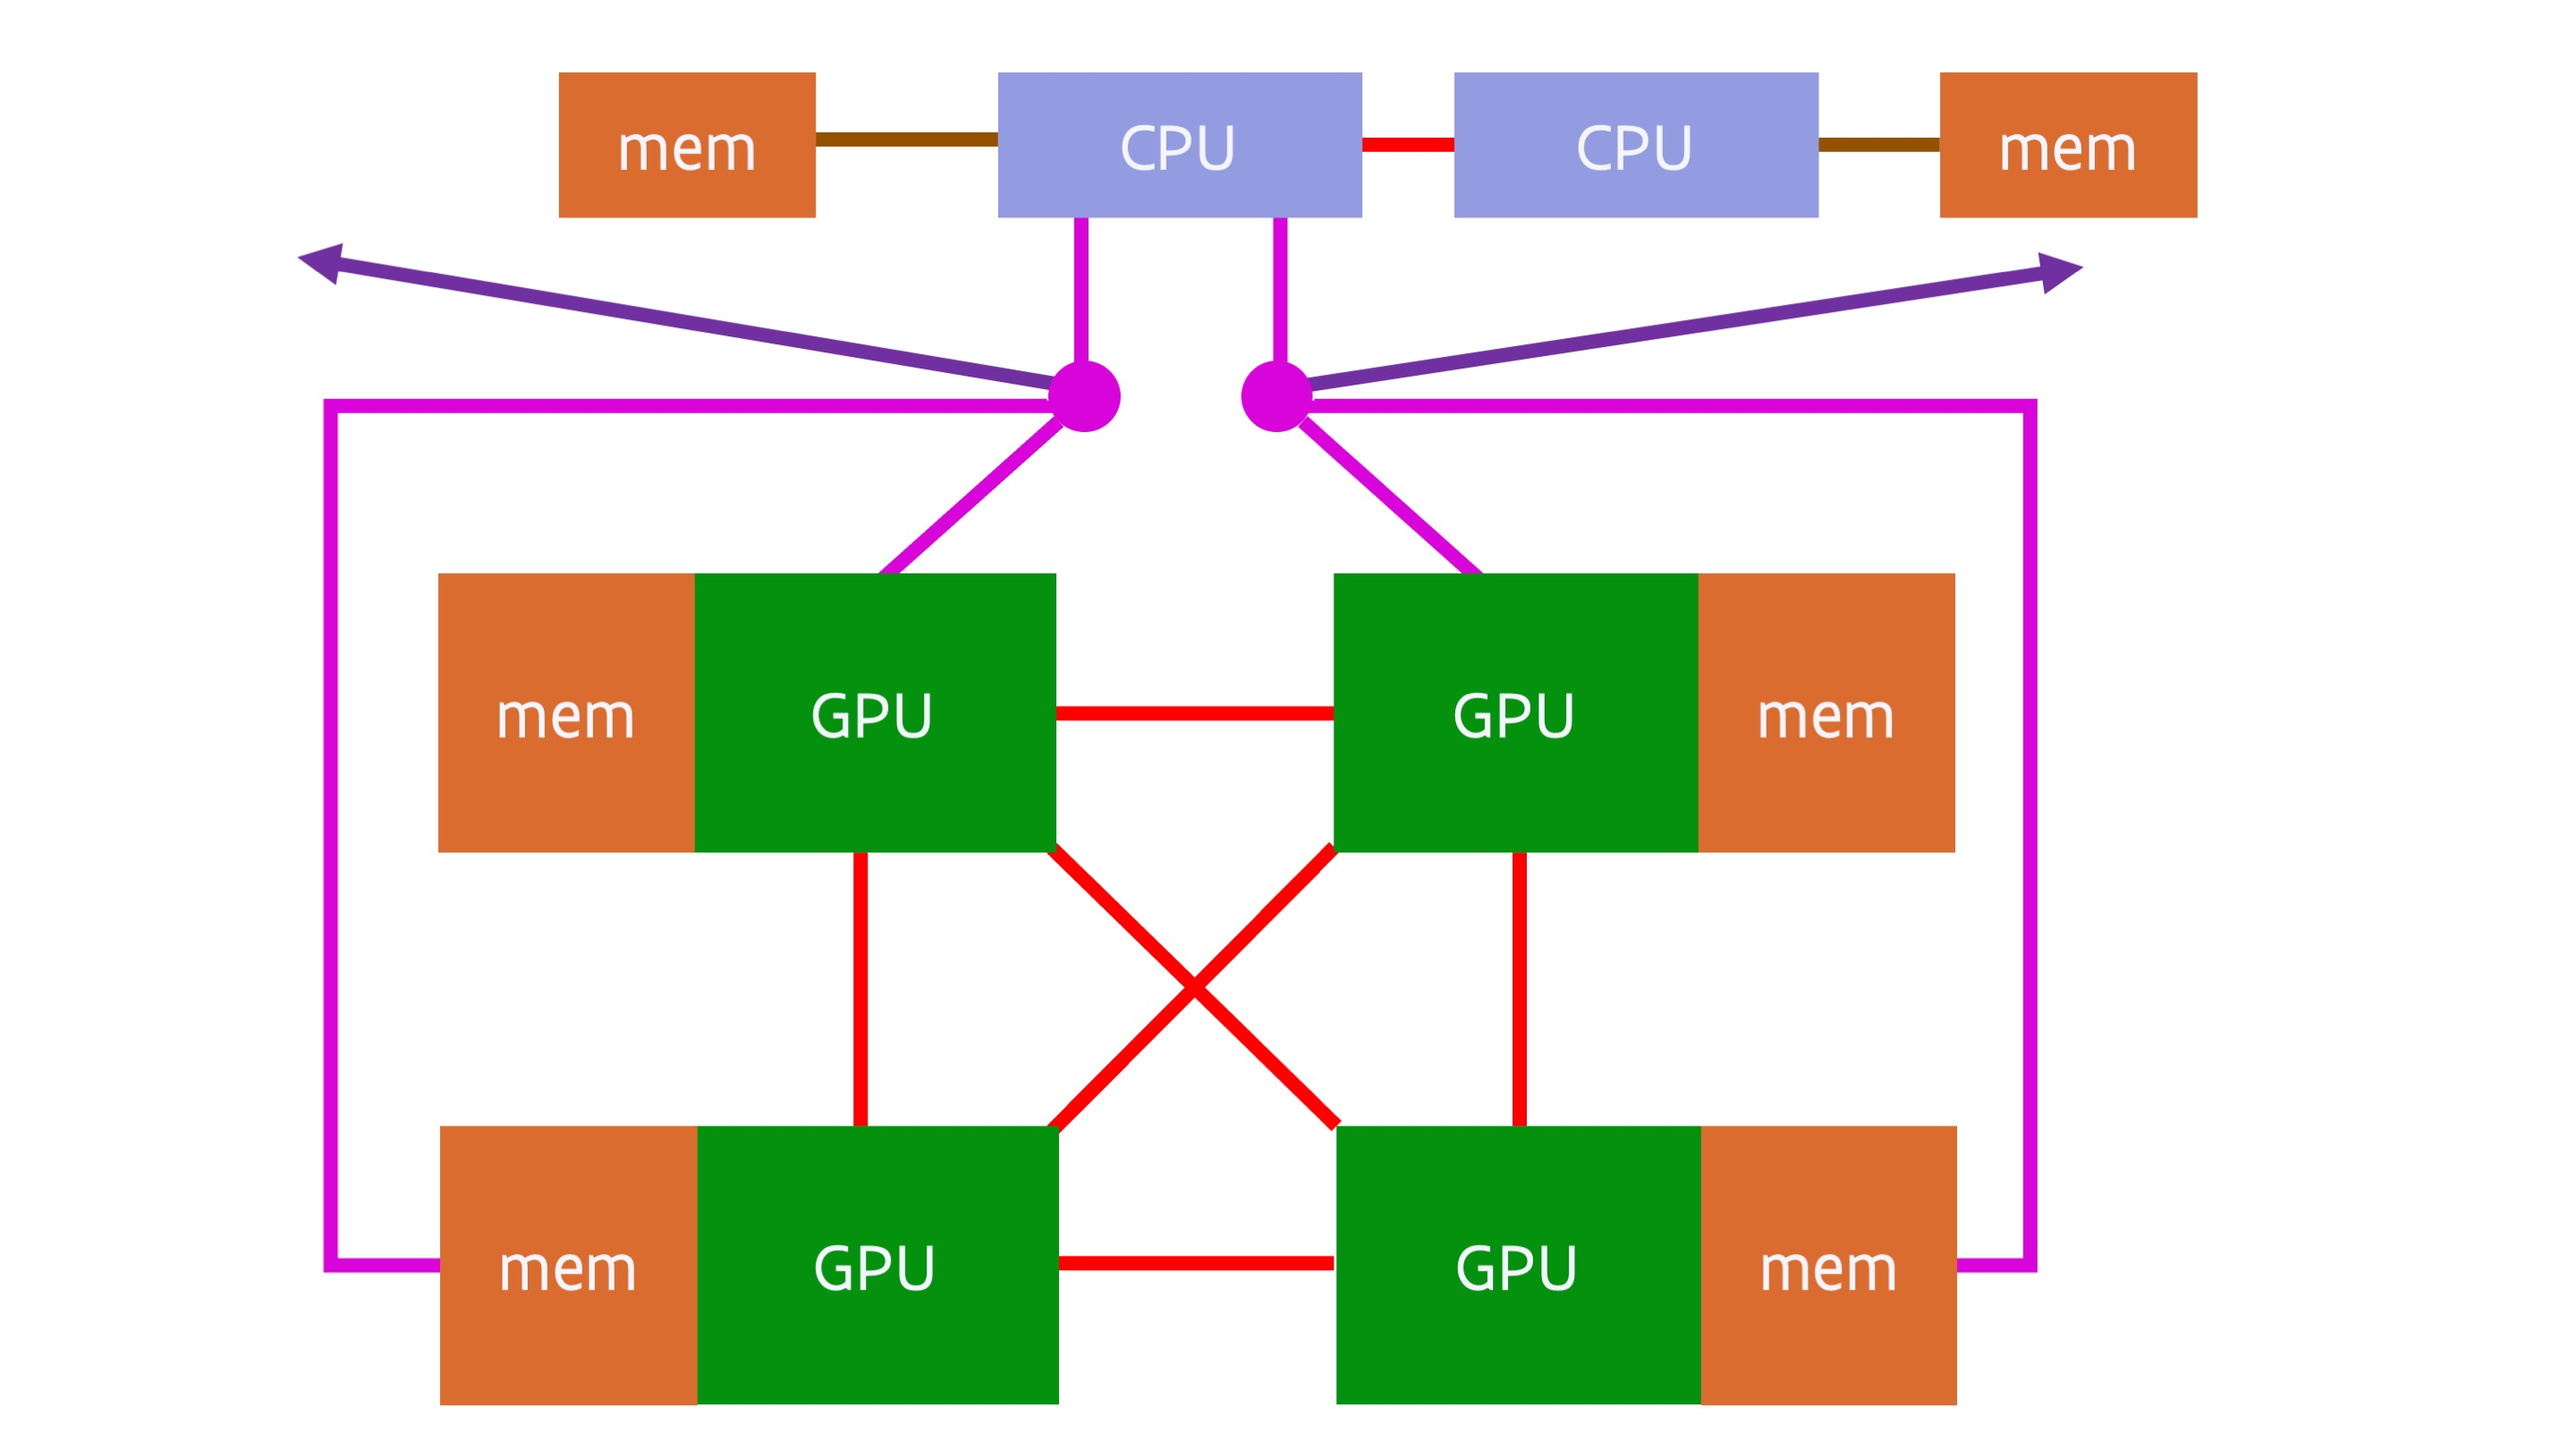
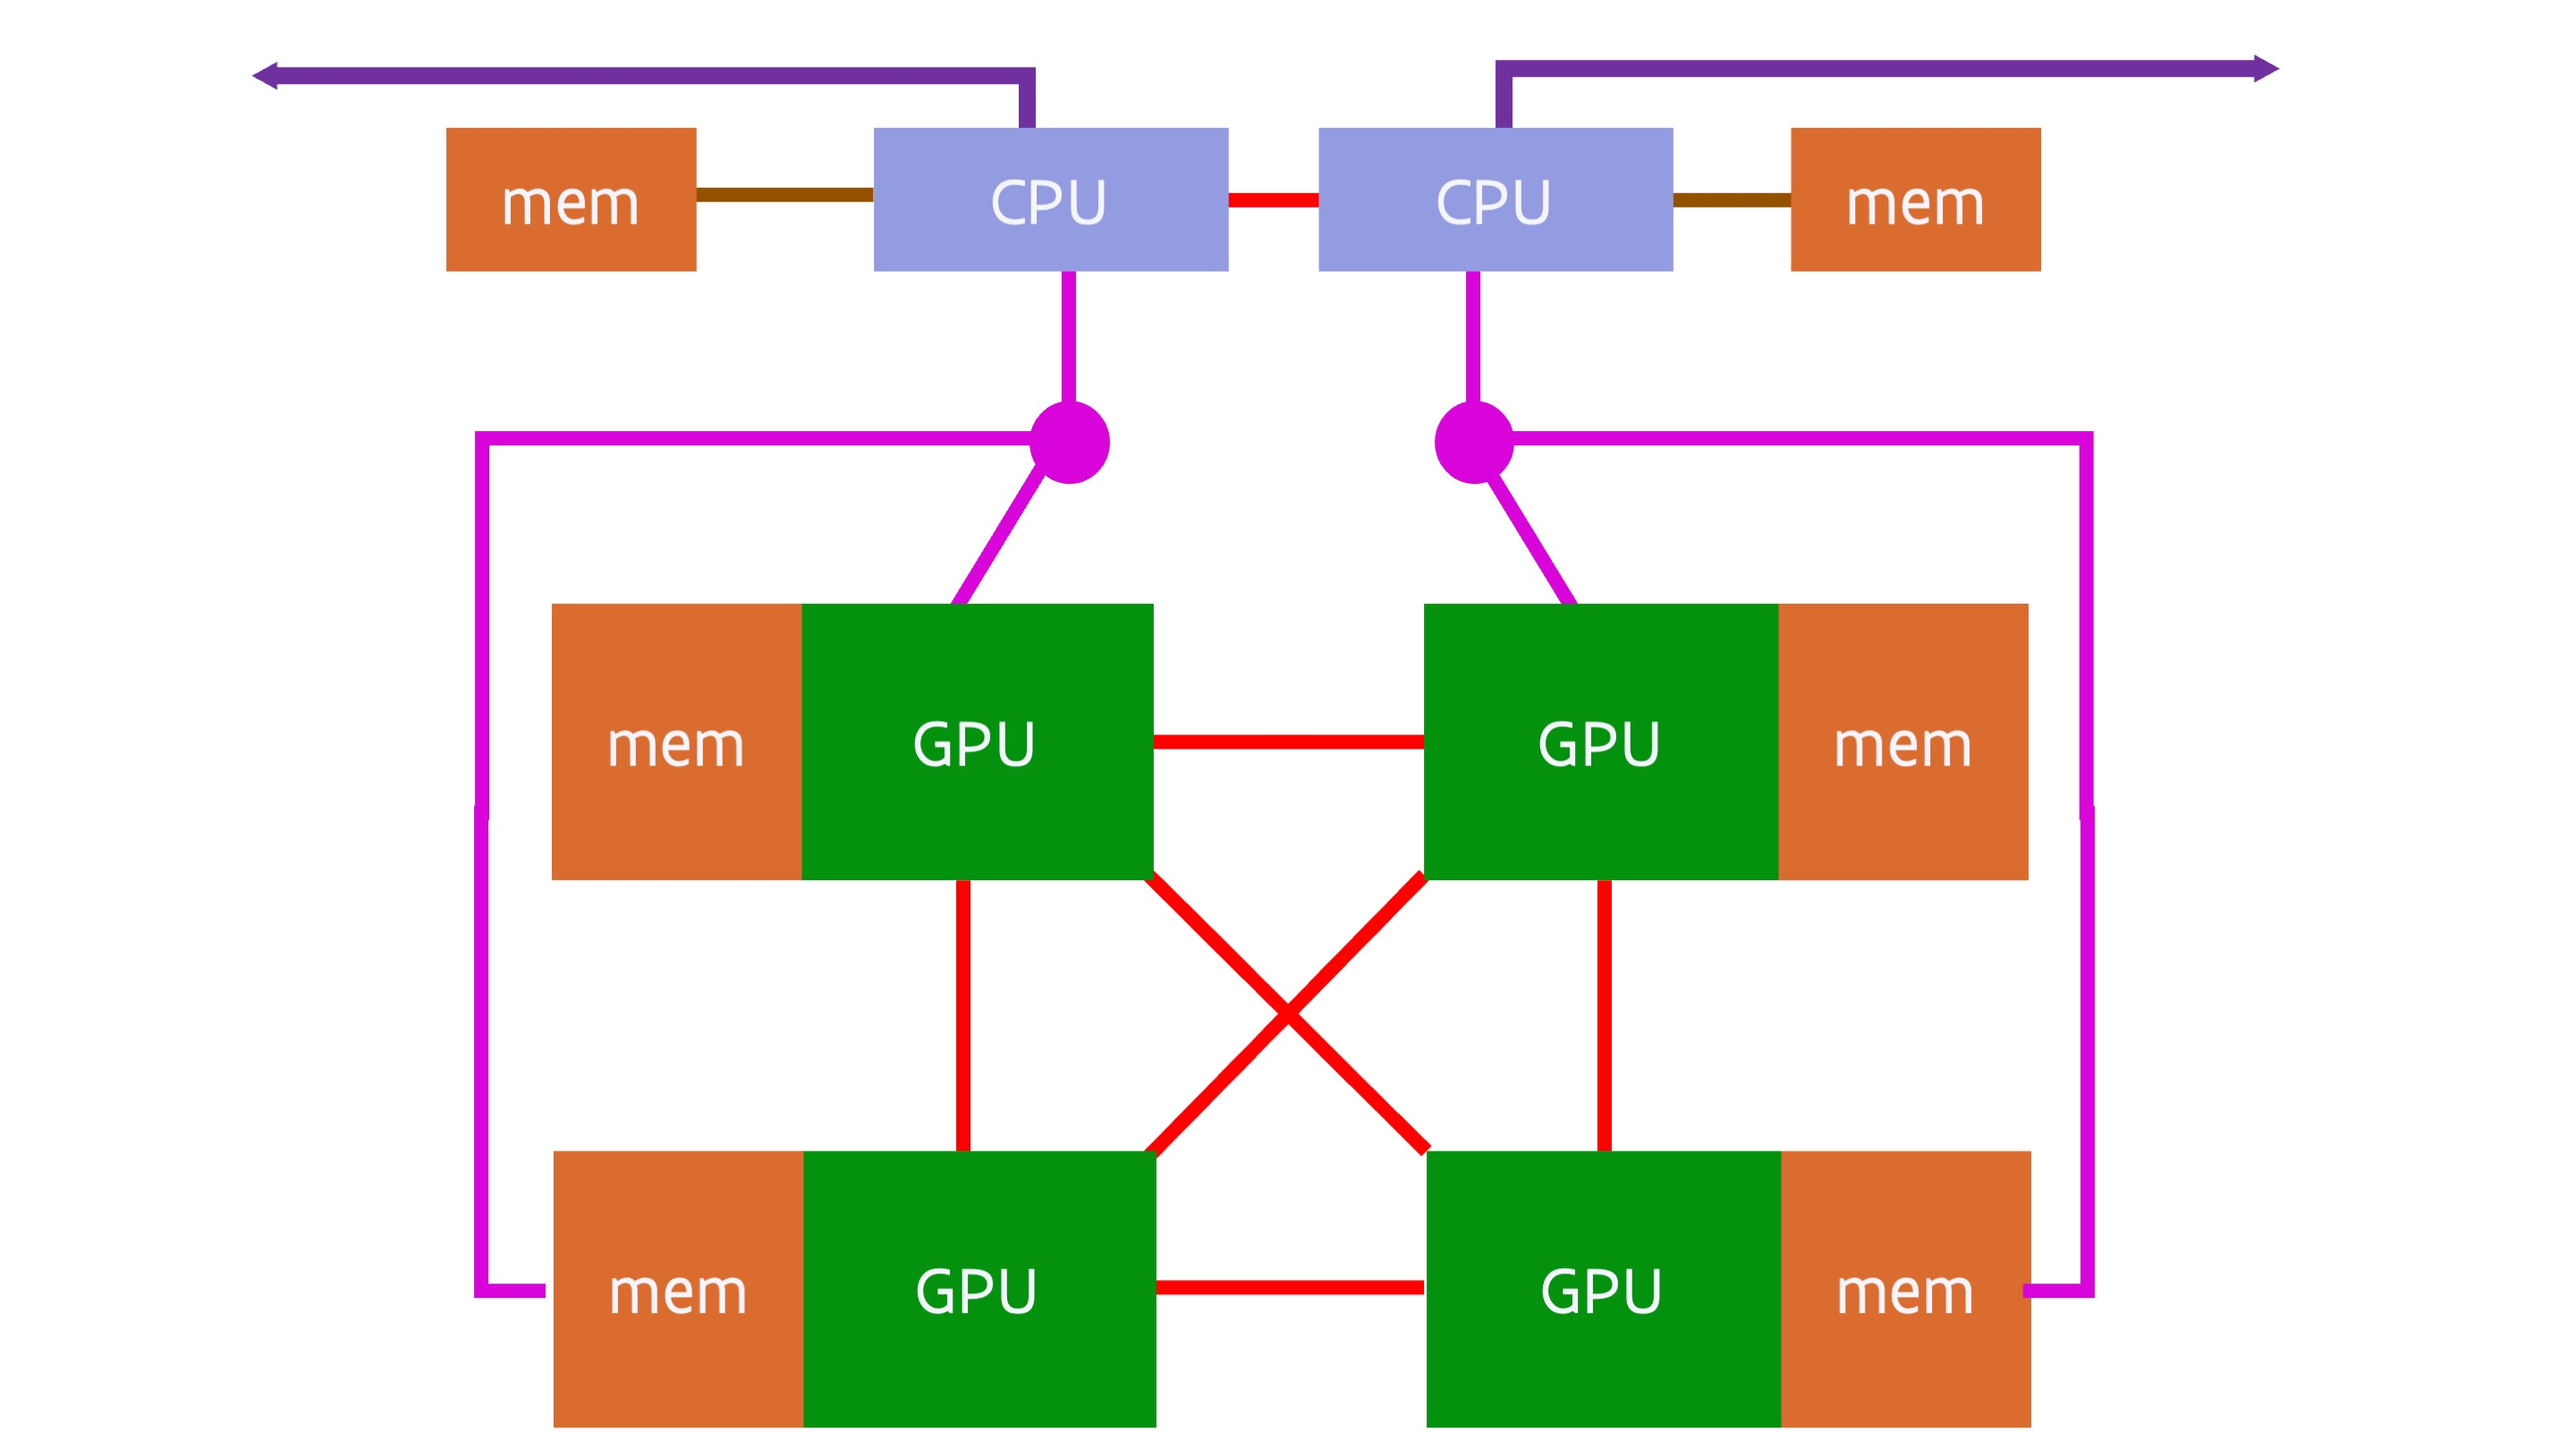
Changing the image and discussion of the 4xA100 node to align more with the node we have at UAntwerp.

Changed region(s): [[0.0938, 0.0309, 0.9062, 0.9877]]

diff --git a/docs/C08_Accelerators/C08_S05_Status_GPU_computing.md b/docs/C08_Accelerators/C08_S05_Status_GPU_computing.md
@@ -111,21 +111,23 @@ that offered by the connections between the CPU and GPU. However, not all system
 such a link between graphics cards. A CPU was connected to the GPUs using PCIe, and
 similarly a network interface would also be connected to a CPU using PCIe.
 
-Later designs tried to move the network interconnect closer to the GPUs, as they
-perform the majority of the calculations and hence also contain the data that should
-be send to other nodes. A typical 4-GPU node based on the NVIDIA Ampere A100 GPU launched
+A typical 4-GPU node based on the NVIDIA Ampere A100 GPU launched
 in 2020 would look similar to:
 
 ![2020 NVIDIA A100](../img/C08_S05_02_2020_A100.jpg)
 
 There are many variants of quad GPU designs with the A100 GPU, with single and dual
-socket CPU servers. However, it is often advantageous to have all GPUs connected to
-a single CPU, but only the single socket AMD Epyc CPU has enough PCIe connections
-to do so and still be able to also attach one or two network interface cards.
-The above design solves this in a different way. It uses two PCIe switches (the magenta
-circles), and each PCIe switch connects the CPU to two of the GPUs and a network 
-interface card (the latter denoted by the dark purple line). This also brings the
-network very close to the GPU. 
+socket CPU servers. However, as some 2020-era CPUs didn't have enough PCIe lanes
+to connect 4 GPUs, 2 network cards and in some cases also some local fast SSDs
+on two sockets (let alone a single CPU socket),
+a different solution was needed. 
+The above design solves this by using two PCIe switches (the magenta
+circles), and each PCIe switch connects the CPU to two of the GPUs. 
+In the above design two network cards are used per node, one connected to
+each of the CPU sockets. Some variants of the design will connect the network 
+cards and/or NVMe SSDs (a type of SSD that uses the PCIe interface for fast data
+transfer) also to the switches for better direct data transfer between 
+the interconnect and the GPUs and/or the SSDs and the GPUs.
 
 
 ### Cache-coherent interconnect between CPU and GPU
